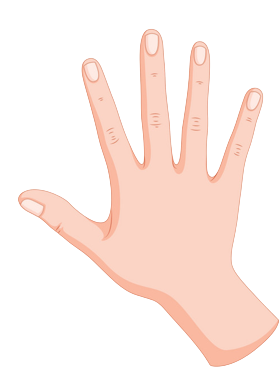
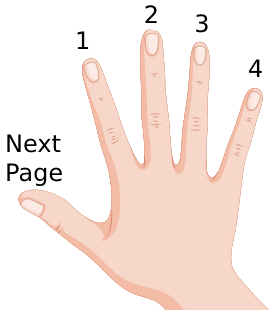
added reading/writing

Changed region(s): [[0.0, 0.0, 1.0, 1.0], [0.7168, 0.2032, 0.7742, 0.2903]]

diff --git a/gui.py b/gui.py
@@ -3,20 +3,6 @@ from tkinter import font
 from PIL import ImageTk, Image  
 import json
 
-with open("data.json") as f:
-    data = json.load(f)
-
-page_1 = data["pages"][0]
-page_2 = data["pages"][1]
-indexVal1 = (f"{page_1['key_1']}")
-middleVal1 = (f"{page_1['key_2']}")
-ringVal1 = (f"{page_1['key_3']}")
-pinkyVal1 = (f"{page_1['key_4']}")
-
-indexVal2 = (f"{page_2['key_1']}")
-middleVal2 = (f"{page_2['key_2']}")
-ringVal2 = (f"{page_2['key_3']}")
-pinkyVal2 = (f"{page_2['key_4']}")
 
 class Application(tk.Frame):
     def __init__(self, master=None):
@@ -38,6 +24,7 @@ class Application(tk.Frame):
     def switch_to_menu(self):
         self.main_page.pack_forget()
         self.main_page.remove_image()
+        MainPage.readFile(self)
         self.menu_page.pack()
 
 class MenuPage(tk.Frame):
@@ -70,14 +57,35 @@ class MenuPage(tk.Frame):
 
 
 class MainPage(tk.Frame):
+
+
+
+
     def __init__(self, master=None):
         super().__init__(master)
+        self.page_1 = ""
+        self.page_2 = ""
+        self.indexVal1 = ""
+        self.middleVal1 = ""
+        self.ringVal1 = ""
+        self.pinkyVal1 = ""
+
+        self.indexVal2 = ""
+        self.middleVal2 = ""
+        self.ringVal2 = ""
+        self.pinkyVal2 = ""
+
+        self.readFile()
+
         self.create_widgets()
         self.lf = Image.open("lefthand.png")
         self.left_hand = ImageTk.PhotoImage(self.lf)
         self.image_label = tk.Label(image=self.left_hand, bg="#57C4E5")
         self.image_label.image = self.left_hand
         self.image_label.pack(side="bottom")
+
+        
+
 
     def create_widgets(self):
         self.tfont = tk.font.Font(size=14)
@@ -89,7 +97,7 @@ class MainPage(tk.Frame):
 
         self.save = tk.Button(self)
         self.save["text"] = "Save."
-        # self.save["command"] = write to file
+        self.save["command"] = self.saveToFile
         self.save.grid(row=2, column=2)
 
         self.page1_label = tk.Label(self)
@@ -99,6 +107,10 @@ class MainPage(tk.Frame):
         self.page2_label = tk.Label(self)
         self.page2_label["text"] = "Page two"
         self.page2_label.grid(row=0, column=3)
+
+        self.switch_label = tk.Label(self)
+        self.switch_label["text"] = "Next page"
+        self.switch_label.place(relx=0.5, rely=0.75, anchor="center")
 
 
         self.one_label = tk.Label(self)
@@ -119,35 +131,35 @@ class MainPage(tk.Frame):
 
 
         self.index_entry = tk.Text(self, width = 20, height = 3, font=self.tfont)
-        self.index_entry.insert("end", indexVal1)
+        self.index_entry.insert("end", self.indexVal1)
         self.index_entry.grid(row=1, column=1, padx=20, pady=5)
 
         self.middle_entry = tk.Text(self, width = 20, height = 3, font=self.tfont)
-        self.middle_entry.insert("end", middleVal1)
+        self.middle_entry.insert("end", self.middleVal1)
         self.middle_entry.grid(row=2, column=1, padx=20, pady=5)
 
         self.ring_entry = tk.Text(self, width = 20, height = 3, font=self.tfont)
-        self.ring_entry.insert("end", ringVal1)
+        self.ring_entry.insert("end", self.ringVal1)
         self.ring_entry.grid(row=3, column=1, padx=20, pady=5)
 
         self.pinky_entry = tk.Text(self, width = 20, height = 3, font=self.tfont)
-        self.pinky_entry.insert("end", pinkyVal1)
+        self.pinky_entry.insert("end", self.pinkyVal1)
         self.pinky_entry.grid(row=4, column=1, padx=20, pady=5)
         
         self.index_entry2 = tk.Text(self, width = 20, height = 3, font=self.tfont)
-        self.index_entry2.insert("end", indexVal2)
+        self.index_entry2.insert("end", self.indexVal2)
         self.index_entry2.grid(row=1, column=3, padx=20, pady=5)
 
         self.middle_entry2 = tk.Text(self, width = 20, height = 3, font=self.tfont)
-        self.middle_entry2.insert("end", middleVal2)
+        self.middle_entry2.insert("end", self.middleVal2)
         self.middle_entry2.grid(row=2, column=3, padx=20, pady=5)
 
         self.ring_entry2 = tk.Text(self, width = 20, height = 3, font=self.tfont)
-        self.ring_entry2.insert("end", ringVal2)
+        self.ring_entry2.insert("end", self.ringVal2)
         self.ring_entry2.grid(row=3, column=3, padx=20, pady=5)
 
         self.pinky_entry2 = tk.Text(self, width = 20, height = 3, font=self.tfont)
-        self.pinky_entry2.insert("end", pinkyVal2)
+        self.pinky_entry2.insert("end", self.pinkyVal2)
         self.pinky_entry2.grid(row=4, column=3, padx=20, pady=5)
 
 
@@ -155,8 +167,53 @@ class MainPage(tk.Frame):
     def remove_image(self):
         self.image_label.destroy()
 
+    def readFile(self):
+        with open("data.json") as f:
+            data = json.load(f)
+
+        page_1 = data["pages"][0]
+        page_2 = data["pages"][1]
+        self.indexVal1 = (f"{page_1['key_1']}")
+        self.middleVal1 = (f"{page_1['key_2']}")
+        self.ringVal1 = (f"{page_1['key_3']}")
+        self.pinkyVal1 = (f"{page_1['key_4']}")
+
+        self.indexVal2 = (f"{page_2['key_1']}")
+        self.middleVal2 = (f"{page_2['key_2']}")
+        self.ringVal2 = (f"{page_2['key_3']}")
+        self.pinkyVal2 = (f"{page_2['key_4']}")
 
 
+
+
+    def saveToFile(self):
+
+    
+        with open("data.json") as f:
+            data = json.load(f) 
+
+        indexVal1 = self.index_entry.get("1.0","end")
+        middleVal1 = self.middle_entry.get("1.0","end")
+        ringVal1 = self.ring_entry.get("1.0","end")
+        pinkyVal1 = self.pinky_entry.get("1.0","end")
+
+        indexVal2 = self.index_entry2.get("1.0","end")
+        middleVal2 = self.middle_entry2.get("1.0","end")
+        ringVal2 = self.ring_entry2.get("1.0","end")
+        pinkyVal2 = self.pinky_entry2.get("1.0","end")
+
+        with open("data.json", "w") as f:
+            data["pages"][0]["key_1"] = indexVal1
+            data["pages"][0]["key_2"] = middleVal1
+            data["pages"][0]["key_3"] = ringVal1
+            data["pages"][0]["key_4"] = pinkyVal1
+
+            data["pages"][1]["key_1"] = indexVal2
+            data["pages"][1]["key_2"] = middleVal2
+            data["pages"][1]["key_3"] = ringVal2
+            data["pages"][1]["key_4"] = pinkyVal2
+
+            json.dump(data, f)
 
 
 if __name__ == "__main__":
